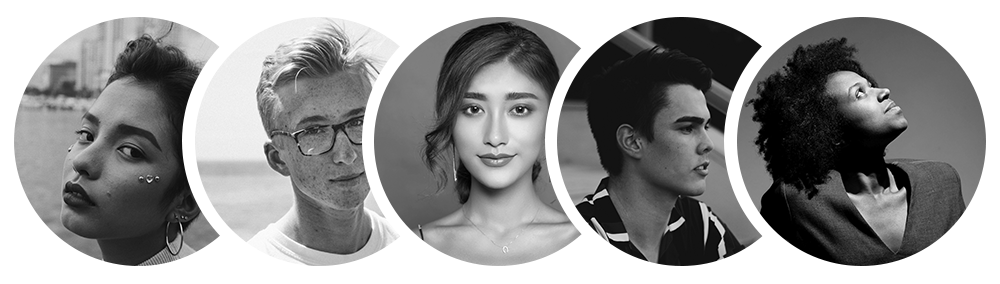
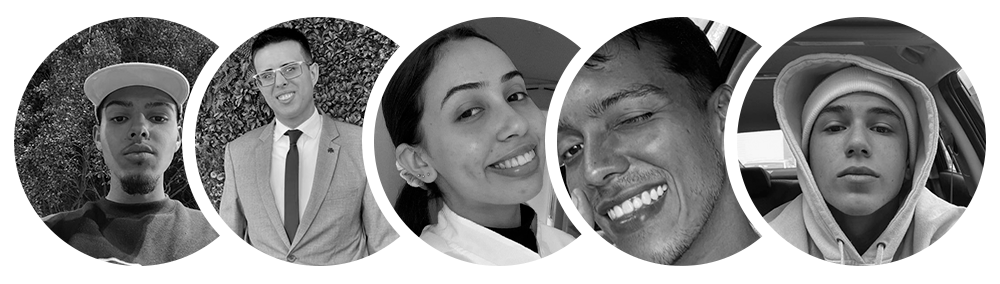
beta 1.1

diff --git a/src/Pages/Home/Home.jsx b/src/Pages/Home/Home.jsx
@@ -22,7 +22,7 @@ import trofeu from "./imgs/icontrofeu.png"
 import cerebro from "./imgs/iconcerebro.png"
 import RS from "./imgs/LogoBranco.png"
 import stars_rate from './imgs/stars2.png'
-import people from './imgs/peoples.png'
+import people from './imgs/peoplesG.png'
 import ComponentRight from "../../Components/Ferramentas/img_right.jsx"
 import ComponentLeft from "../../Components/Ferramentas/img_left.jsx"
 import icon_engrenagem from "./imgs/iconscloud-100.png"
@@ -127,9 +127,9 @@ export default function Home() {
                         <img src={RS}></img>
                     </div>
                     <ul>
-                        <a /* href="" */ rel="noopener noreferrer" target="__blank" style={{color: '#ffffffda'}}>Gerenciador de Habitos</a>
-                        <a /* href="" */ rel="noopener noreferrer" target="__blank" style={{color: '#ffffffda'}}>Gerenciador de Tarefas</a>
-                        <a /* href="" */ rel="noopener noreferrer" target="__blank" style={{color: '#ffffffda'}}>Workout Tracker</a>
+                        <a href="https://romarios.notion.site/GERENCIADOR-DE-H-BITOS-1203212308e8804abdecd5bda3342533" rel="noopener noreferrer" target="__blank" >Gerenciador de Habitos</a>
+                        <a href="https://pay.cakto.com.br/BYsAKSf" rel="noopener noreferrer" target="__blank">Gerenciador de Estudos</a>
+                        <a href="https://pay.cakto.com.br/7HqVsdr" rel="noopener noreferrer" target="__blank">Workout Tracker</a>
                         <a href="https://pay.cakto.com.br/9Gm9NKY" rel="noopener noreferrer" target="__blank">Planilha Financeira</a>
                     </ul>
                     <a className="btn_home" href="https://pay.cakto.com.br/6FZqRwc" rel="noopener noreferrer" target="__blank">EXPLORE JÁ</a>
@@ -201,7 +201,7 @@ export default function Home() {
                         subtitle2="Controle"
                         subdescription2="Controle seu protocolo 100%, contando os macros, visualizando dia a dia como esta sendo seu rendimento."
                         video={vdtreino} />
-                        
+
                 </div>
                 <div className="c3-container">
                     <ComponentLeft
@@ -368,8 +368,8 @@ export default function Home() {
                     <span>  Um template, entregue em três passos</span>
                 </div>
                 <div className="c6-containervideo Hreveal">
-                   {/*  <iframe src="https://www.youtube.com/embed/xqZs7K41yvA?si=cHUqmoWywSu56vjH" allow="accelerometer; autoplay; clipboard-write; encrypted-media; gyroscope; picture-in-picture; web-share" referrerpolicy="strict-origin-when-cross-origin" allowfullscreen></iframe> */}
-                   <img className="Hreveal" src={embreve}></img>
+                    {/*  <iframe src="https://www.youtube.com/embed/xqZs7K41yvA?si=cHUqmoWywSu56vjH" allow="accelerometer; autoplay; clipboard-write; encrypted-media; gyroscope; picture-in-picture; web-share" referrerpolicy="strict-origin-when-cross-origin" allowfullscreen></iframe> */}
+                    <img className="Hreveal" src={embreve}></img>
                 </div>
                 <div className="c6-containersteps">
                     <div className="div-step Hreveal3">
@@ -413,8 +413,8 @@ export default function Home() {
                             <div className="c7-contentBox">
                                 <span>Gerenciador de Habitos</span>
                                 <span>Gerenciador de Metas</span>
-                                <span>Gerenciador de Dieta</span>
-                                <span>Gerenciador de Treino</span>
+                                <span>Gerenciador de Saúde</span>
+                                <span>Gerenciador de Estudos</span>
                                 <span>Gerenciador de Livros</span>
                                 <span>Gerenciador de Tarefas</span>
                             </div>
@@ -453,10 +453,10 @@ export default function Home() {
                         <div className="c-footerright">
                             <h1>PRODUTOS AVULSOS</h1>
                             <div>
-                                <a /* href="" */ rel="noopener noreferrer" target="__blank" style={{color: '#f1f7f6af'}}>Gerenciador de Habitos</a>
+                                <a href="https://romarios.notion.site/GERENCIADOR-DE-H-BITOS-1203212308e8804abdecd5bda3342533" rel="noopener noreferrer" target="__blank" >Gerenciador de Habitos</a>
                                 <a href="https://pay.cakto.com.br/9Gm9NKY" rel="noopener noreferrer" target="__blank">Planilha Financeira</a>
-                                <a /* href="" */ rel="noopener noreferrer" target="__blank" style={{color: '#f1f7f6af'}}>Gerenciador de Tarefas</a>
-                                <a /* href="" */ rel="noopener noreferrer" target="__blank" style={{color: '#f1f7f6af'}}>Workout Tracker</a>
+                                <a href="https://pay.cakto.com.br/BYsAKSf" rel="noopener noreferrer" target="__blank">Gerenciador de Estudos</a>
+                                <a href="https://pay.cakto.com.br/7HqVsdr" rel="noopener noreferrer" target="__blank">Workout Tracker</a>
                             </div>
                         </div>
                     </div>
@@ -474,3 +474,4 @@ export default function Home() {
         </section>
     )
 }
+

diff --git a/src/Pages/HomeMobile/HomeMobile.jsx b/src/Pages/HomeMobile/HomeMobile.jsx
@@ -23,7 +23,7 @@ import trofeu from "../Home/imgs/icontrofeu.png";
 import cerebro from "../Home/imgs/iconcerebro.png";
 import RS from "../Home/imgs/LogoBranco.png";
 import stars_rate from '../Home/imgs/stars2.png'
-import people from '../Home/imgs/peoples.png';
+import people from '../Home/imgs/peoplesG.png';
 import ComponentRight from "../../Components/Ferramentas/img_right.jsx";
 import icon_engrenagem from "../Home/imgs/iconscloud-100.png";
 import mockupcel from "../Home/imgs/mockupcel.png";
@@ -145,10 +145,10 @@ export default function HomeMobile() {
                         <img className="HM_logo" src={RS}></img>
                         <div className="HM_ul">
                             <ul>
-                                <a href="" rel="noopener noreferrer" style={{ color: '#ffffffa2' }}>Gerenciador de Habitos</a>
-                                <a href="" rel="noopener noreferrer" style={{ color: '#ffffffa2' }}>Gerenciador de Tarefas</a>
-                                <a href="" rel="noopener noreferrer" style={{ color: '#ffffffa2' }}>Workout Tracker</a>
-                                <a href="https://pay.cakto.com.br/9Gm9NKY" rel="noopener noreferrer">Planilha Financeira</a>
+                                <a href="https://romarios.notion.site/GERENCIADOR-DE-H-BITOS-1203212308e8804abdecd5bda3342533" rel="noopener noreferrer" >Gerenciador de Habitos</a>
+                                <a href="https://pay.cakto.com.br/BYsAKSf" rel="noopener noreferrer" >Gerenciador de Estudos</a>
+                                <a href="https://pay.cakto.com.br/7HqVsdr" rel="noopener noreferrer" >Workout Tracker</a>
+                                <a href="https://pay.cakto.com.br/9Gm9NKY" rel="noopener noreferrer" >Planilha Financeira</a>
                             </ul>
                         </div>
                         <a className="Btn_HM" href="https://pay.cakto.com.br/6FZqRwc" rel="noopener noreferrer">EXPLORE JÁ</a>
@@ -431,8 +431,8 @@ export default function HomeMobile() {
                             <div className="c7-contentBoxCel">
                                 <span>Gerenciador de Habitos</span>
                                 <span>Gerenciador de Metas</span>
-                                <span>Gerenciador de Dieta</span>
-                                <span>Gerenciador de Treino</span>
+                                <span>Gerenciador de Saúde</span>
+                                <span>Gerenciador de Estudos</span>
                                 <span>Gerenciador de Livros</span>
                                 <span>Gerenciador de Tarefas</span>
                             </div>
@@ -471,10 +471,10 @@ export default function HomeMobile() {
                         <div className="c-footerrightCel">
                             <h1>PRODUTOS AVULSOS</h1>
                             <div>
-                                <a /* href="" */ rel="noopener noreferrer" style={{ color: '#f1f7f6af' }}>Gerenciador de Habitos (em breve)</a>
+                                <a href="https://romarios.notion.site/GERENCIADOR-DE-H-BITOS-1203212308e8804abdecd5bda3342533" rel="noopener noreferrer" >Gerenciador de Habitos</a>
                                 <a href="https://pay.cakto.com.br/9Gm9NKY" rel="noopener noreferrer" >Planilha Financeira</a>
-                                <a /* href="" */ rel="noopener noreferrer" style={{ color: '#f1f7f6af' }}>Gerenciador de Tarefas (em breve)</a>
-                                <a /* href=""  */ rel="noopener noreferrer" style={{ color: '#f1f7f6af' }}>Workout Tracker (em breve)</a>
+                                <a href="https://pay.cakto.com.br/BYsAKSf" rel="noopener noreferrer" >Gerenciador de Estudos</a>
+                                <a href="https://pay.cakto.com.br/7HqVsdr" rel="noopener noreferrer" >Workout Tracker</a>
                             </div>
                         </div>
                     </div>
